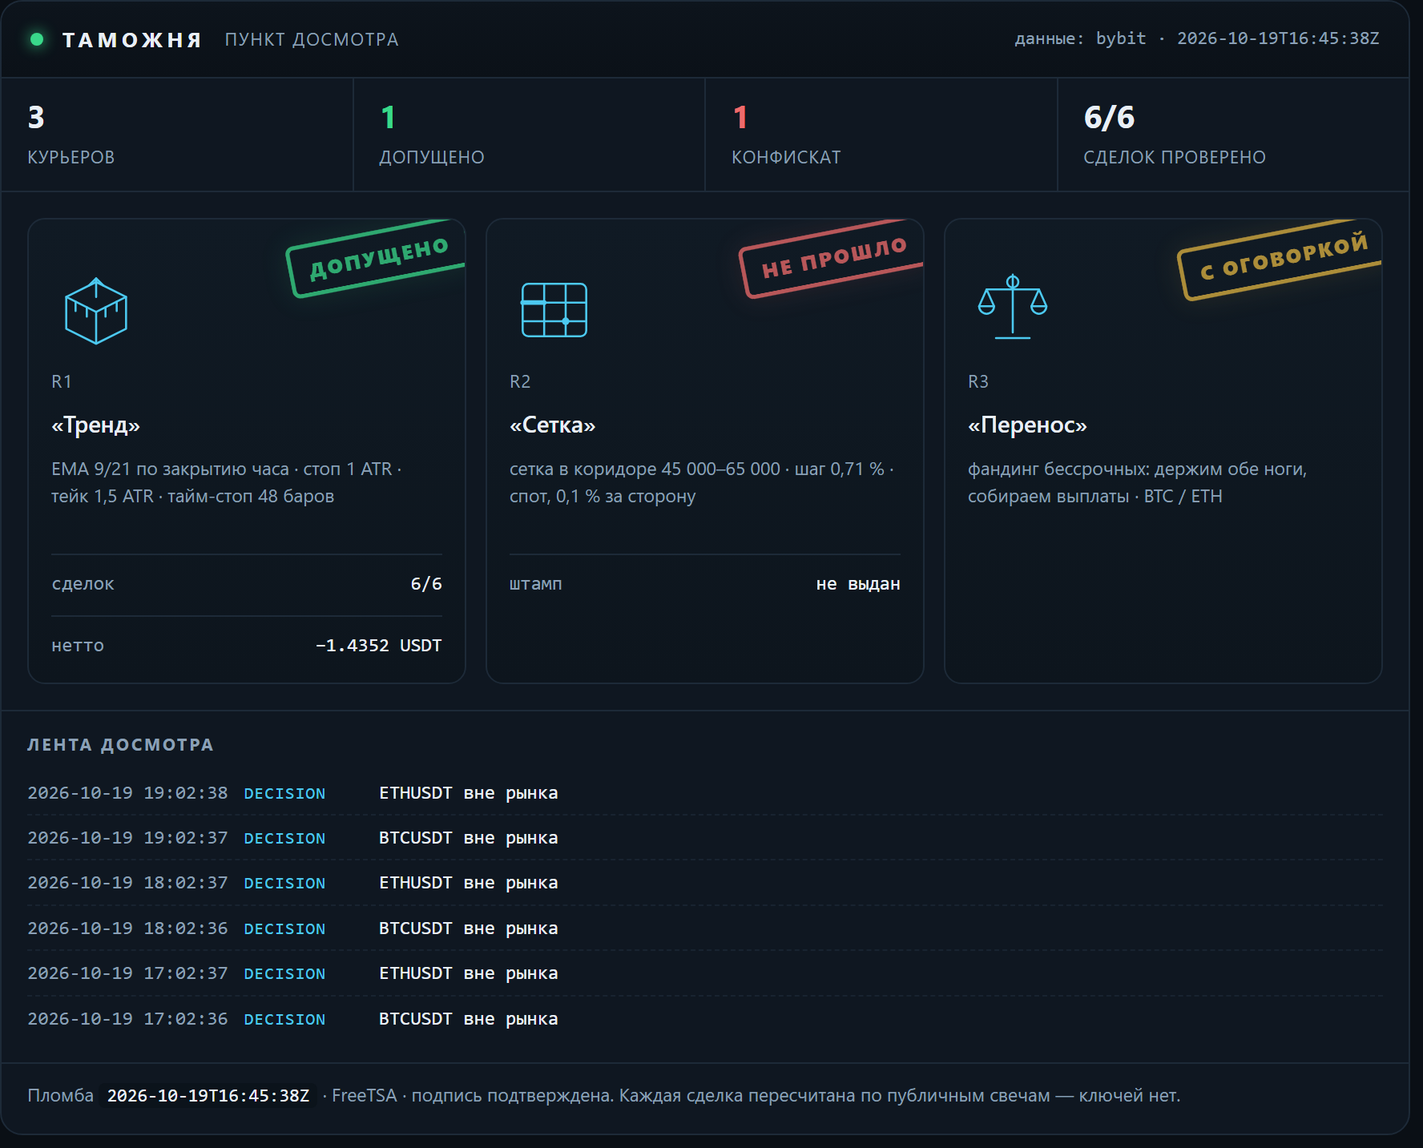
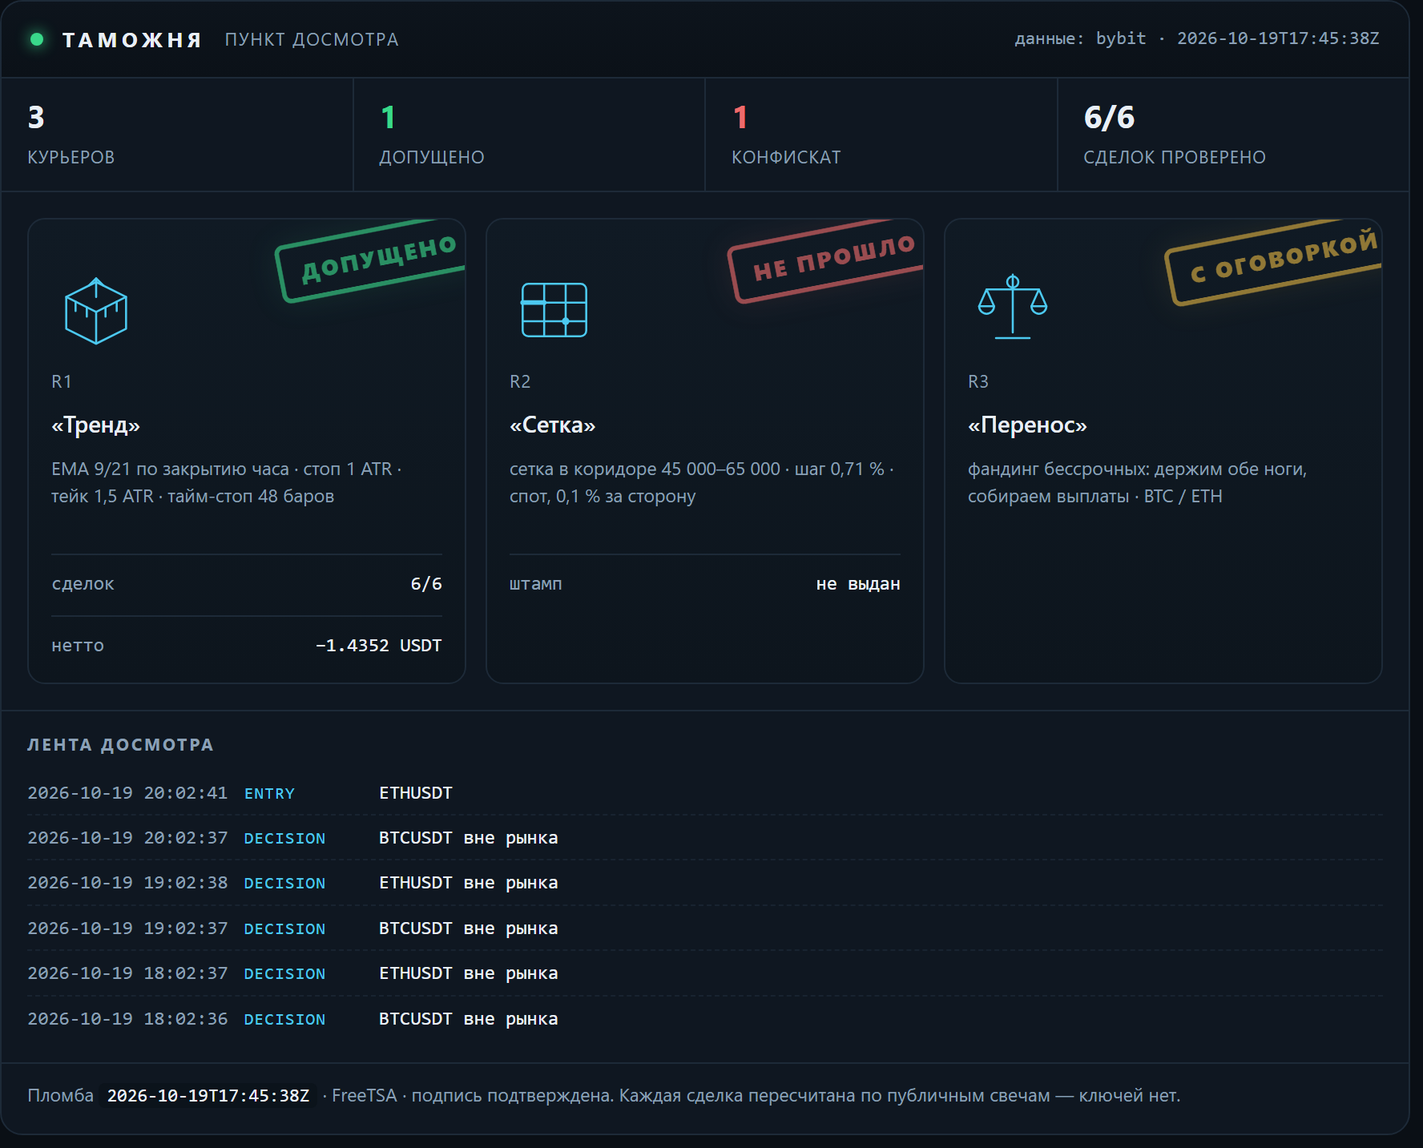
lab: таможня — свежие числа досмотра

diff --git a/docs/customs.html b/docs/customs.html
@@ -16,7 +16,7 @@
   <h1><a href="index.html">Gramwright Lab</a></h1>
   <p>Журнал проверки торговых гипотез: что проверяли, что вышло по факту, сколько съели издержки. Числа берутся из журнала стенда. Не инвестиционная рекомендация.</p>
 </header>
-<h1>Таможня</h1><p class="intro">Пункт досмотра заявленных результатов. Стратегии приезжают с грузом обещаний, и каждая проходит проверку по публичным данным биржи: цены существуют, комиссии по тарифу, нетто сходится. Что прошло — получает штамп. Что не прошло — в конфискат, с причиной. Штамп означает «записи подлинные», а не «стратегия прибыльна».</p><p><img src="img/customs.png" alt="Терминал досмотра: три курьера, штампы, лента событий" style="width:100%;height:auto;border:1px solid var(--line);border-radius:10px"></p><p class="c-note">Сверху — тот же терминал, что собирается из журналов: счётчики, эмблемы курьеров, штампы и лента последних событий. Ниже — то же самое текстом, чтобы читалось с телефона и индексировалось поиском.</p><article><h2>R1 «Тренд» <span class="verdict">— <span class="c-ok">допущено</span></span></h2><p><strong>Правило:</strong> EMA 9/21 по закрытию часа · стоп 1 ATR · тейк 1,5 ATR · тайм-стоп 48 баров</p><p><strong>Декларация:</strong> Заявлено до прогона: держать 30 сделок, лимит нотионала 10 % от счёта, стоп дня −1 %. Прибыль не заявлялась — это важно: курьер не обещал доход.</p><p><strong>Проверено по публичным свечам, без ключей:</strong> 6 из 6 сделок. Сумма нетто −1.4352 USDT.</p><ul class="c-chk"><li class="y">BTCUSDT: нетто −0.8746 USDT · комиссии 0.0901 · проверено · с поправкой</li><li class="y">BTCUSDT: нетто −0.5441 USDT · комиссии 0.0896 · проверено</li><li class="y">ETHUSDT: нетто −0.2253 USDT · комиссии 0.0266 · проверено</li><li class="y">ETHUSDT: нетто −0.1513 USDT · комиссии 0.0265 · проверено</li><li class="y">ETHUSDT: нетто +0.1984 USDT · комиссии 0.0262 · проверено</li><li class="y">ETHUSDT: нетто +0.1617 USDT · комиссии 0.0260 · проверено</li></ul><p class="tags">журнал sha256 2350090763498224… · проверяльщик verify-1</p><p class="c-note">Штамп означает: записи подлинные, а не что стратегия прибыльна. Курьер в минусе, и минус тоже стоит на штампе — иначе это была бы не проверка, а реклама.</p><p class="tags">источник: verify-report.json</p></article><article><h2>R2 «Сетка» <span class="verdict">— <span class="c-bad">не прошло</span></span></h2><p><strong>Правило:</strong> сетка в коридоре 45 000–65 000 · шаг 0,71 % · спот, 0,1 % за сторону</p><p><strong>Декларация:</strong> Заявлено: «44 % урожая уходит бирже в виде комиссий». Кроме того — перевес над простым владением монетой.</p><p><strong>Что сошлось:</strong></p><ul class="c-chk"><li class="y">сами числа пересчитаны и воспроизводятся: коридор 45–65k был активен 23 % всей истории и 28 % последних двух лет</li></ul><p><strong>Что не сошлось:</strong></p><ul class="c-chk"><li class="n">44 % не подтвердилось: при шаге 0,71 % и тарифе 0,1 % комиссия съедает 28,3 % шага. Чтобы получить 44 %, нужен шаг 0,45 % — это около 80 уровней, а не 50</li><li class="n">от урожая доля комиссий 85,5 % за всю историю и 49,6 % за последние два года — тоже не 44 %</li><li class="n">перевес над владением посчитан на тарифе 0,055 %: при нём +1,32 п. п., на розничном 0,1 % — −0,72 п. п. То есть перевес исчезает</li><li class="n">семилетний тест стартовал в сентябре 2019 при биткоине около 10 000 — ниже коридора. Он говорит, что фиксированный коридор не подходит для периода, а не что сетка отстаёт</li></ul><p class="tags">источник: lab_grid.py, пересчёт 17.10.2026</p></article><article><h2>R3 «Перенос» <span class="verdict">— <span class="c-warn">с оговоркой</span></span></h2><p><strong>Правило:</strong> фандинг бессрочных: держим обе ноги, собираем выплаты · BTC / ETH</p><p><strong>Декларация:</strong> Заявлено: около 11,9 % в год от выплат фандинга при просадке выплатной кривой меньше 2 %.</p><p><strong>Что сошлось:</strong></p><ul class="c-chk"><li class="y">выплаты взяты из публичной истории биржи, ключей не нужно: BTC — 7 190 выплат с 25.03.2020, ETH — 6 561 с 21.10.2020</li><li class="y">сумма сходится: +83,4 % и +83,2 % за 6,6 и 6,0 года — те самые ~11,9 % в год</li><li class="y">худшая просадка выплатной кривой: −1,65 % и −1,97 %</li></ul><p><strong>Что не сошлось:</strong></p><ul class="c-chk"><li class="n">оговорка 1: премию сжали — 2021 год дал +38,3 %, 2026 — +1,96 %. Прошлое не повторяется</li><li class="n">оговорка 2: вход-выход стоит около 0,31 %, капитала нужно 1,2 от нотионала, текущий базис −0,082 % против входа</li><li class="n">оговорка 3: риск площадки. История FTX в этой же таблице выглядела так же прилично</li></ul><p class="tags">источник: публичная история фандинга Bybit, замер 17.10.2026</p></article><div class="c-conf"><h3>Конфискат</h3><p><strong>«Сетка»: заявленные 44 % комиссий не подтвердились.</strong> Досмотр показал 28,3 % от шага и 85,5 % от урожая — цифра хуже заявленной по форме, но лучше по смыслу: сетку убивает не размер шага, а то, что урожай почти весь уходит в комиссии. Это и вышло в выпуск — с поправкой, а не с красивой цифрой.</p></div><p class="c-note">Пломба: <code>2026-10-19T16:45:38Z</code> · нотариус FreeTSA · Oct 19 16:45:38 2026 GMT · подпись подтверждена. Манифест скрепляет отчёт проверки, журнал сделок и декларации курьеров: подменишь любую цифру — пломба перестанет сходиться.</p><p class="c-note">Досмотр идёт по публичным минутным свечам и публичной истории фандинга — ключей у проверяющего нет, и он может повторить проверку сам.</p><p class="c-note">Контент образовательный, не является инвестиционной рекомендацией. Торговля связана с риском потери капитала.</p>
+<h1>Таможня</h1><p class="intro">Пункт досмотра заявленных результатов. Стратегии приезжают с грузом обещаний, и каждая проходит проверку по публичным данным биржи: цены существуют, комиссии по тарифу, нетто сходится. Что прошло — получает штамп. Что не прошло — в конфискат, с причиной. Штамп означает «записи подлинные», а не «стратегия прибыльна».</p><p><img src="img/customs.png" alt="Терминал досмотра: три курьера, штампы, лента событий" style="width:100%;height:auto;border:1px solid var(--line);border-radius:10px"></p><p class="c-note">Сверху — тот же терминал, что собирается из журналов: счётчики, эмблемы курьеров, штампы и лента последних событий. Ниже — то же самое текстом, чтобы читалось с телефона и индексировалось поиском.</p><article><h2>R1 «Тренд» <span class="verdict">— <span class="c-ok">допущено</span></span></h2><p><strong>Правило:</strong> EMA 9/21 по закрытию часа · стоп 1 ATR · тейк 1,5 ATR · тайм-стоп 48 баров</p><p><strong>Декларация:</strong> Заявлено до прогона: держать 30 сделок, лимит нотионала 10 % от счёта, стоп дня −1 %. Прибыль не заявлялась — это важно: курьер не обещал доход.</p><p><strong>Проверено по публичным свечам, без ключей:</strong> 6 из 6 сделок. Сумма нетто −1.4352 USDT.</p><ul class="c-chk"><li class="y">BTCUSDT: нетто −0.8746 USDT · комиссии 0.0901 · проверено · с поправкой</li><li class="y">BTCUSDT: нетто −0.5441 USDT · комиссии 0.0896 · проверено</li><li class="y">ETHUSDT: нетто −0.2253 USDT · комиссии 0.0266 · проверено</li><li class="y">ETHUSDT: нетто −0.1513 USDT · комиссии 0.0265 · проверено</li><li class="y">ETHUSDT: нетто +0.1984 USDT · комиссии 0.0262 · проверено</li><li class="y">ETHUSDT: нетто +0.1617 USDT · комиссии 0.0260 · проверено</li></ul><p class="tags">журнал sha256 6f8ff32f2b091135… · проверяльщик verify-1</p><p class="c-note">Штамп означает: записи подлинные, а не что стратегия прибыльна. Курьер в минусе, и минус тоже стоит на штампе — иначе это была бы не проверка, а реклама.</p><p class="tags">источник: verify-report.json</p></article><article><h2>R2 «Сетка» <span class="verdict">— <span class="c-bad">не прошло</span></span></h2><p><strong>Правило:</strong> сетка в коридоре 45 000–65 000 · шаг 0,71 % · спот, 0,1 % за сторону</p><p><strong>Декларация:</strong> Заявлено: «44 % урожая уходит бирже в виде комиссий». Кроме того — перевес над простым владением монетой.</p><p><strong>Что сошлось:</strong></p><ul class="c-chk"><li class="y">сами числа пересчитаны и воспроизводятся: коридор 45–65k был активен 23 % всей истории и 28 % последних двух лет</li></ul><p><strong>Что не сошлось:</strong></p><ul class="c-chk"><li class="n">44 % не подтвердилось: при шаге 0,71 % и тарифе 0,1 % комиссия съедает 28,3 % шага. Чтобы получить 44 %, нужен шаг 0,45 % — это около 80 уровней, а не 50</li><li class="n">от урожая доля комиссий 85,5 % за всю историю и 49,6 % за последние два года — тоже не 44 %</li><li class="n">перевес над владением посчитан на тарифе 0,055 %: при нём +1,32 п. п., на розничном 0,1 % — −0,72 п. п. То есть перевес исчезает</li><li class="n">семилетний тест стартовал в сентябре 2019 при биткоине около 10 000 — ниже коридора. Он говорит, что фиксированный коридор не подходит для периода, а не что сетка отстаёт</li></ul><p class="tags">источник: lab_grid.py, пересчёт 17.10.2026</p></article><article><h2>R3 «Перенос» <span class="verdict">— <span class="c-warn">с оговоркой</span></span></h2><p><strong>Правило:</strong> фандинг бессрочных: держим обе ноги, собираем выплаты · BTC / ETH</p><p><strong>Декларация:</strong> Заявлено: около 11,9 % в год от выплат фандинга при просадке выплатной кривой меньше 2 %.</p><p><strong>Что сошлось:</strong></p><ul class="c-chk"><li class="y">выплаты взяты из публичной истории биржи, ключей не нужно: BTC — 7 190 выплат с 25.03.2020, ETH — 6 561 с 21.10.2020</li><li class="y">сумма сходится: +83,4 % и +83,2 % за 6,6 и 6,0 года — те самые ~11,9 % в год</li><li class="y">худшая просадка выплатной кривой: −1,65 % и −1,97 %</li></ul><p><strong>Что не сошлось:</strong></p><ul class="c-chk"><li class="n">оговорка 1: премию сжали — 2021 год дал +38,3 %, 2026 — +1,96 %. Прошлое не повторяется</li><li class="n">оговорка 2: вход-выход стоит около 0,31 %, капитала нужно 1,2 от нотионала, текущий базис −0,082 % против входа</li><li class="n">оговорка 3: риск площадки. История FTX в этой же таблице выглядела так же прилично</li></ul><p class="tags">источник: публичная история фандинга Bybit, замер 17.10.2026</p></article><div class="c-conf"><h3>Конфискат</h3><p><strong>«Сетка»: заявленные 44 % комиссий не подтвердились.</strong> Досмотр показал 28,3 % от шага и 85,5 % от урожая — цифра хуже заявленной по форме, но лучше по смыслу: сетку убивает не размер шага, а то, что урожай почти весь уходит в комиссии. Это и вышло в выпуск — с поправкой, а не с красивой цифрой.</p></div><p class="c-note">Пломба: <code>2026-10-19T17:45:38Z</code> · нотариус FreeTSA · Oct 19 17:45:38 2026 GMT · подпись подтверждена. Манифест скрепляет отчёт проверки, журнал сделок и декларации курьеров: подменишь любую цифру — пломба перестанет сходиться.</p><p class="c-note">Досмотр идёт по публичным минутным свечам и публичной истории фандинга — ключей у проверяющего нет, и он может повторить проверку сам.</p><p class="c-note">Контент образовательный, не является инвестиционной рекомендацией. Торговля связана с риском потери капитала.</p>
 <footer class="site">
   Код стенда и аудитора: <a href="https://github.com/XSlaidx/truth-engine">XSlaidx/truth-engine</a>
   &middot; <a href="graveyard.html">кладбище правил</a>
